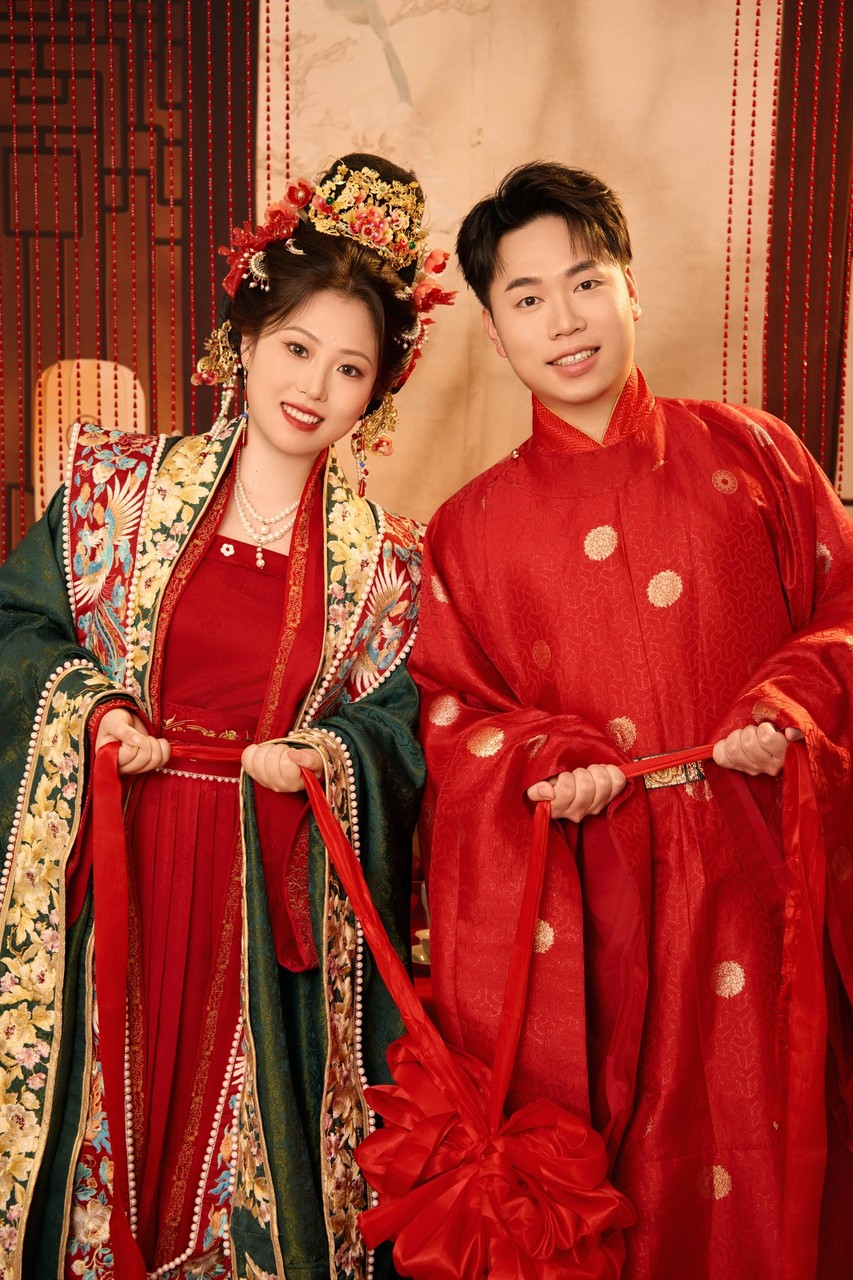
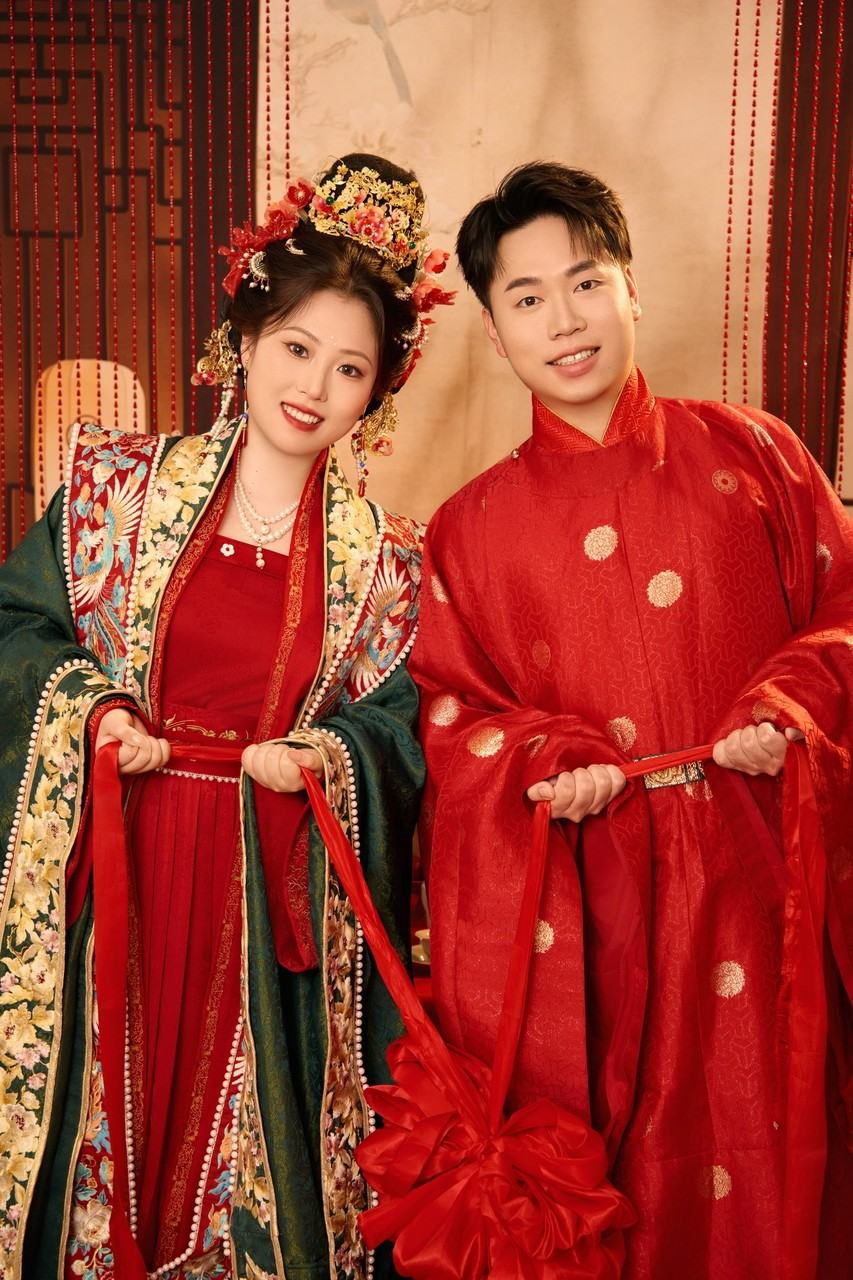
全面优化：.assetsignore 阻止32MB开发文件部署；删浏览器扩展残留4.7KB；worker 304修复；audio preload降级；photo2/3再压缩；_headers补女方海报no-cache+h2c长缓存

diff --git a/poster/western/poster-western.html b/poster/western/poster-western.html
@@ -224,132 +224,7 @@
     padding-right: 5px;
   }
 </style>
-<style data-noexport="">#ed-bar{position:absolute;left:50%;transform:translateX(-50%);z-index:99999;top:0;display:flex;gap:6px;align-items:center;background:rgba(22,14,10,.85);padding:8px 12px;border-radius:10px;font:13px/1.4 system-ui,sans-serif;color:#f3e8d2;box-shadow:0 6px 24px rgba(0,0,0,.4)}#ed-bar button{background:#3d2c20;border:1px solid #a98e5f;color:#f3e8d2;border-radius:6px;padding:4px 11px;cursor:pointer;font-size:13px;font-family:inherit}#ed-bar button:hover{background:#5a3f2b}#ed-bar button.primary{background:#8a6a3a;border-color:#d8bd85}#ed-bar .ed-hint{opacity:.65;margin-left:8px;font-size:12px}#ed-bar[hidden]{display:none}.ed-on img{-webkit-user-drag:none;user-select:none}.ed-on :is(.photo-wrap,.photo3-wrap,.arch,.calligraphy,.blessing,.corner-xi-l1,.corner-xi-l2,.xi-hero,.salute,.verse,.name-l,.name-r,.role,.name,.seal-medal,.divider,.sec-label,.time-1,.time-2,.loc-1,.loc-2,.host,.footline,.corner-xi-r1,.corner-xi-r2,.seal-v,.sprig-top,.eyebrow,.name-1,.amp,.name-2,.cn-names,.stem-l,.stem-r,.slot-label,.presence,.date-1,.date-2,.date-cn,.div-sm,.venue-1,.venue-2,.venue-cn,.seal,.host-cn){cursor:move}.ed-on :is(.photo-wrap,.photo3-wrap,.arch,.calligraphy,.blessing,.corner-xi-l1,.corner-xi-l2,.xi-hero,.salute,.verse,.name-l,.name-r,.role,.name,.seal-medal,.divider,.sec-label,.time-1,.time-2,.loc-1,.loc-2,.host,.footline,.corner-xi-r1,.corner-xi-r2,.seal-v,.sprig-top,.eyebrow,.name-1,.amp,.name-2,.cn-names,.stem-l,.stem-r,.slot-label,.presence,.date-1,.date-2,.date-cn,.div-sm,.venue-1,.venue-2,.venue-cn,.seal,.host-cn):hover{outline:1.5px dashed rgba(255,235,190,.75);outline-offset:2px}[contenteditable="true"]{outline:2px solid #e8c87c!important;cursor:text!important;user-select:text}#ed-selbox{position:absolute;border:1.5px dashed #e8c87c;pointer-events:none;z-index:9990;display:none}#ed-guide{position:absolute;top:0;width:1px;height:100%;background:rgba(232,200,124,.8);pointer-events:none;z-index:9989;display:none}.ed-crop :is(.photo-wrap,.arch){cursor:grab}.ed-crop :is(.photo-wrap,.arch):active{cursor:grabbing}</style><style id="dpp-chat-launcher-css">
-#dpp-chat-launcher-button {
-  position: fixed;
-  right: 22px;
-  bottom: max(22px, env(safe-area-inset-bottom));
-  z-index: 2147483646;
-  display: inline-flex;
-  align-items: center;
-  justify-content: center;
-  width: 44px;
-  height: 44px;
-  padding: 0;
-  border: 0;
-  border-radius: 999px;
-  outline: none;
-  background: rgba(255,255,255,0.82);
-  box-shadow: 0 14px 34px rgba(15,23,42,0.18), inset 0 1px 0 rgba(255,255,255,0.75);
-  backdrop-filter: blur(18px) saturate(1.2);
-  -webkit-backdrop-filter: blur(18px) saturate(1.2);
-  cursor: pointer;
-  transition: transform 0.12s ease;
-  touch-action: none;
-}
-#dpp-chat-launcher-button:hover { transform: scale(1.06); }
-#dpp-chat-launcher-button:active { transform: scale(0.98); }
-html.dpp-theme-dark #dpp-chat-launcher-button, [data-dpp-theme="dark"] #dpp-chat-launcher-button {
-  background: rgba(17,21,29,0.48);
-  box-shadow: 0 18px 46px rgba(0,0,0,0.38), inset 0 1px 0 rgba(255,255,255,0.08);
-}
-#dpp-chat-launcher-button .dpp-chat-launcher__whale {
-  display: block;
-  width: 32px;
-  height: 32px;
-  background-repeat: no-repeat;
-  background-size: 400% 200%;
-  /* "thinking" frame of the 4x2 sprite sheet */
-  background-position: 33.3333% 0%;
-  pointer-events: none;
-}
-
-#dpp-floating-chat-window {
-  position: fixed;
-  right: 22px;
-  bottom: 80px;
-  z-index: 2147483645;
-  width: min(430px, calc(100vw - 28px));
-  height: min(720px, calc(100vh - 100px));
-  border: 1px solid rgba(0,0,0,0.08);
-  border-radius: 18px;
-  overflow: hidden;
-  background: rgba(250,250,250,0.86);
-  box-shadow: 0 24px 60px rgba(15,23,42,0.18);
-  animation: dpp-floating-chat-in 170ms ease;
-  display: flex;
-  flex-direction: column;
-}
-#dpp-floating-chat-window.dpp-floating-chat--dark {
-  border-color: rgba(148,163,184,0.22);
-  background: rgba(7,9,13,0.42);
-  box-shadow: 0 28px 82px rgba(0,0,0,0.52), inset 0 1px 0 rgba(255,255,255,0.06);
-  backdrop-filter: blur(30px) saturate(1.18);
-  -webkit-backdrop-filter: blur(30px) saturate(1.18);
-}
-#dpp-floating-chat-window .dpp-floating-chat__frame {
-  width: 100%;
-  flex: 1;
-  min-height: 0;
-  border: 0;
-  background: transparent;
-}
-#dpp-floating-chat-window .dpp-floating-chat__header {
-  display: flex;
-  align-items: center;
-  justify-content: space-between;
-  padding: 8px 12px;
-  background: rgba(255,255,255,0.95);
-  border-bottom: 1px solid rgba(0,0,0,0.06);
-  cursor: move;
-  user-select: none;
-  touch-action: none;
-  flex-shrink: 0;
-}
-#dpp-floating-chat-window.dpp-floating-chat--dark .dpp-floating-chat__header {
-  background: rgba(17,21,29,0.95);
-  border-bottom-color: rgba(148,163,184,0.18);
-}
-#dpp-floating-chat-window .dpp-floating-chat__title {
-  font: 700 13px/1.4 'Inter', 'PingFang SC', -apple-system, "Segoe UI", "Microsoft YaHei", sans-serif;
-  color: #4d6bfe;
-}
-#dpp-floating-chat-window.dpp-floating-chat--dark .dpp-floating-chat__title { color: #7b93ff; }
-#dpp-floating-chat-window .dpp-floating-chat__close {
-  width: 20px;
-  height: 20px;
-  border: 0;
-  border-radius: 6px;
-  background: transparent;
-  color: #9ca3af;
-  cursor: pointer;
-  display: flex;
-  align-items: center;
-  justify-content: center;
-  font-size: 16px;
-  line-height: 1;
-}
-#dpp-floating-chat-window .dpp-floating-chat__close:hover { background: rgba(0,0,0,0.06); color: #374151; }
-#dpp-floating-chat-window.dpp-floating-chat--dark .dpp-floating-chat__close { color: #9ca3af; }
-#dpp-floating-chat-window.dpp-floating-chat--dark .dpp-floating-chat__close:hover { background: rgba(255,255,255,0.08); color: #e5e7eb; }
-#dpp-floating-chat-window.dpp-floating-chat--dragging { transition: none !important; user-select: none; }
-#dpp-floating-chat-window.dpp-floating-chat--dragging .dpp-floating-chat__frame { pointer-events: none; }
-body.dpp-floating-chat-dragging { cursor: move !important; }
-body.dpp-floating-chat-dragging * { cursor: move !important; }
-
-@keyframes dpp-floating-chat-in {
-  from { opacity: 0; transform: translateY(8px) scale(0.98); }
-  to { opacity: 1; transform: translateY(0) scale(1); }
-}
-@media (max-width: 640px) {
-  #dpp-floating-chat-window {
-    right: 14px;
-    bottom: 74px;
-    width: calc(100vw - 28px);
-    height: min(680px, calc(100vh - 100px));
-  }
-}
-</style></head>
+<style data-noexport="">#ed-bar{position:absolute;left:50%;transform:translateX(-50%);z-index:99999;top:0;display:flex;gap:6px;align-items:center;background:rgba(22,14,10,.85);padding:8px 12px;border-radius:10px;font:13px/1.4 system-ui,sans-serif;color:#f3e8d2;box-shadow:0 6px 24px rgba(0,0,0,.4)}#ed-bar button{background:#3d2c20;border:1px solid #a98e5f;color:#f3e8d2;border-radius:6px;padding:4px 11px;cursor:pointer;font-size:13px;font-family:inherit}#ed-bar button:hover{background:#5a3f2b}#ed-bar button.primary{background:#8a6a3a;border-color:#d8bd85}#ed-bar .ed-hint{opacity:.65;margin-left:8px;font-size:12px}#ed-bar[hidden]{display:none}.ed-on img{-webkit-user-drag:none;user-select:none}.ed-on :is(.photo-wrap,.photo3-wrap,.arch,.calligraphy,.blessing,.corner-xi-l1,.corner-xi-l2,.xi-hero,.salute,.verse,.name-l,.name-r,.role,.name,.seal-medal,.divider,.sec-label,.time-1,.time-2,.loc-1,.loc-2,.host,.footline,.corner-xi-r1,.corner-xi-r2,.seal-v,.sprig-top,.eyebrow,.name-1,.amp,.name-2,.cn-names,.stem-l,.stem-r,.slot-label,.presence,.date-1,.date-2,.date-cn,.div-sm,.venue-1,.venue-2,.venue-cn,.seal,.host-cn){cursor:move}.ed-on :is(.photo-wrap,.photo3-wrap,.arch,.calligraphy,.blessing,.corner-xi-l1,.corner-xi-l2,.xi-hero,.salute,.verse,.name-l,.name-r,.role,.name,.seal-medal,.divider,.sec-label,.time-1,.time-2,.loc-1,.loc-2,.host,.footline,.corner-xi-r1,.corner-xi-r2,.seal-v,.sprig-top,.eyebrow,.name-1,.amp,.name-2,.cn-names,.stem-l,.stem-r,.slot-label,.presence,.date-1,.date-2,.date-cn,.div-sm,.venue-1,.venue-2,.venue-cn,.seal,.host-cn):hover{outline:1.5px dashed rgba(255,235,190,.75);outline-offset:2px}[contenteditable="true"]{outline:2px solid #e8c87c!important;cursor:text!important;user-select:text}#ed-selbox{position:absolute;border:1.5px dashed #e8c87c;pointer-events:none;z-index:9990;display:none}#ed-guide{position:absolute;top:0;width:1px;height:100%;background:rgba(232,200,124,.8);pointer-events:none;z-index:9989;display:none}.ed-crop :is(.photo-wrap,.arch){cursor:grab}.ed-crop :is(.photo-wrap,.arch):active{cursor:grabbing}</style></head>
 <body><div id="stage" style="transform: scale(0.378095);" class="ed-on">
 
   <div class="frame-outer"></div>
@@ -1081,8 +956,7 @@ body.dpp-floating-chat-dragging * { cursor: move !important; }
 							</div>
 						</div>
 					</div>
-				  <button id="dpp-chat-launcher-button" data-dpp-chat-launcher-owner="launcher-1791377156780-qx2fly0qcg" type="button" style="" title="Open DS++ Chat" aria-label="Open DS++ Chat"><span class="dpp-chat-launcher__whale" style="background-image:url('chrome-extension://kdmpkkahkhdmdhfkdihkopikgcocbpbf/pet/deepseek-whale-pet-states.png')"></span></button><div id="vcaptions-subtitle-iframe" style="transition: 0.3s cubic-bezier(0.4, 0, 0.2, 1); display: none; position: fixed;"></div>
-<style data-noexport>
+				  <style data-noexport>
   /* ---------- 浪漫粒子层：金瓣飘落 + 星光闪烁 + 光斑上升(整屏覆盖) ---------- */
   .romance{position:fixed;inset:0;z-index:9998;pointer-events:none;overflow:hidden}
   .romance i{position:absolute;display:block;pointer-events:none;opacity:0}

diff --git a/poster/chinese/poster.html b/poster/chinese/poster.html
@@ -260,132 +260,7 @@
     color: var(--cream-dim); font-size: 27px; font-weight: 400; letter-spacing: 0.24em; padding-left: 0.24em; opacity: 0.85;
   }
 </style>
-<style data-noexport="">#ed-bar{position:absolute;left:50%;transform:translateX(-50%);z-index:99999;top:0;display:flex;gap:6px;align-items:center;background:rgba(22,14,10,.85);padding:8px 12px;border-radius:10px;font:13px/1.4 system-ui,sans-serif;color:#f3e8d2;box-shadow:0 6px 24px rgba(0,0,0,.4)}#ed-bar button{background:#3d2c20;border:1px solid #a98e5f;color:#f3e8d2;border-radius:6px;padding:4px 11px;cursor:pointer;font-size:13px;font-family:inherit}#ed-bar button:hover{background:#5a3f2b}#ed-bar button.primary{background:#8a6a3a;border-color:#d8bd85}#ed-bar .ed-hint{opacity:.65;margin-left:8px;font-size:12px}#ed-bar[hidden]{display:none}.ed-on img{-webkit-user-drag:none;user-select:none}.ed-on :is(.photo-wrap,.photo3-wrap,.arch,.calligraphy,.blessing,.corner-xi-l1,.corner-xi-l2,.xi-hero,.salute,.verse,.name-l,.name-r,.role,.name,.seal-medal,.divider,.sec-label,.time-1,.time-2,.loc-1,.loc-2,.host,.footline,.corner-xi-r1,.corner-xi-r2,.seal-v,.sprig-top,.eyebrow,.name-1,.amp,.name-2,.cn-names,.stem-l,.stem-r,.slot-label,.presence,.date-1,.date-2,.date-cn,.div-sm,.venue-1,.venue-2,.venue-cn,.seal,.host-cn){cursor:move}.ed-on :is(.photo-wrap,.photo3-wrap,.arch,.calligraphy,.blessing,.corner-xi-l1,.corner-xi-l2,.xi-hero,.salute,.verse,.name-l,.name-r,.role,.name,.seal-medal,.divider,.sec-label,.time-1,.time-2,.loc-1,.loc-2,.host,.footline,.corner-xi-r1,.corner-xi-r2,.seal-v,.sprig-top,.eyebrow,.name-1,.amp,.name-2,.cn-names,.stem-l,.stem-r,.slot-label,.presence,.date-1,.date-2,.date-cn,.div-sm,.venue-1,.venue-2,.venue-cn,.seal,.host-cn):hover{outline:1.5px dashed rgba(255,235,190,.75);outline-offset:2px}[contenteditable="true"]{outline:2px solid #e8c87c!important;cursor:text!important;user-select:text}#ed-selbox{position:absolute;border:1.5px dashed #e8c87c;pointer-events:none;z-index:9990;display:none}#ed-guide{position:absolute;top:0;width:1px;height:100%;background:rgba(232,200,124,.8);pointer-events:none;z-index:9989;display:none}.ed-crop :is(.photo-wrap,.arch){cursor:grab}.ed-crop :is(.photo-wrap,.arch):active{cursor:grabbing}</style><style id="dpp-chat-launcher-css">
-#dpp-chat-launcher-button {
-  position: fixed;
-  right: 22px;
-  bottom: max(22px, env(safe-area-inset-bottom));
-  z-index: 2147483646;
-  display: inline-flex;
-  align-items: center;
-  justify-content: center;
-  width: 44px;
-  height: 44px;
-  padding: 0;
-  border: 0;
-  border-radius: 999px;
-  outline: none;
-  background: rgba(255,255,255,0.82);
-  box-shadow: 0 14px 34px rgba(15,23,42,0.18), inset 0 1px 0 rgba(255,255,255,0.75);
-  backdrop-filter: blur(18px) saturate(1.2);
-  -webkit-backdrop-filter: blur(18px) saturate(1.2);
-  cursor: pointer;
-  transition: transform 0.12s ease;
-  touch-action: none;
-}
-#dpp-chat-launcher-button:hover { transform: scale(1.06); }
-#dpp-chat-launcher-button:active { transform: scale(0.98); }
-html.dpp-theme-dark #dpp-chat-launcher-button, [data-dpp-theme="dark"] #dpp-chat-launcher-button {
-  background: rgba(17,21,29,0.48);
-  box-shadow: 0 18px 46px rgba(0,0,0,0.38), inset 0 1px 0 rgba(255,255,255,0.08);
-}
-#dpp-chat-launcher-button .dpp-chat-launcher__whale {
-  display: block;
-  width: 32px;
-  height: 32px;
-  background-repeat: no-repeat;
-  background-size: 400% 200%;
-  /* "thinking" frame of the 4x2 sprite sheet */
-  background-position: 33.3333% 0%;
-  pointer-events: none;
-}
-
-#dpp-floating-chat-window {
-  position: fixed;
-  right: 22px;
-  bottom: 80px;
-  z-index: 2147483645;
-  width: min(430px, calc(100vw - 28px));
-  height: min(720px, calc(100vh - 100px));
-  border: 1px solid rgba(0,0,0,0.08);
-  border-radius: 18px;
-  overflow: hidden;
-  background: rgba(250,250,250,0.86);
-  box-shadow: 0 24px 60px rgba(15,23,42,0.18);
-  animation: dpp-floating-chat-in 170ms ease;
-  display: flex;
-  flex-direction: column;
-}
-#dpp-floating-chat-window.dpp-floating-chat--dark {
-  border-color: rgba(148,163,184,0.22);
-  background: rgba(7,9,13,0.42);
-  box-shadow: 0 28px 82px rgba(0,0,0,0.52), inset 0 1px 0 rgba(255,255,255,0.06);
-  backdrop-filter: blur(30px) saturate(1.18);
-  -webkit-backdrop-filter: blur(30px) saturate(1.18);
-}
-#dpp-floating-chat-window .dpp-floating-chat__frame {
-  width: 100%;
-  flex: 1;
-  min-height: 0;
-  border: 0;
-  background: transparent;
-}
-#dpp-floating-chat-window .dpp-floating-chat__header {
-  display: flex;
-  align-items: center;
-  justify-content: space-between;
-  padding: 8px 12px;
-  background: rgba(255,255,255,0.95);
-  border-bottom: 1px solid rgba(0,0,0,0.06);
-  cursor: move;
-  user-select: none;
-  touch-action: none;
-  flex-shrink: 0;
-}
-#dpp-floating-chat-window.dpp-floating-chat--dark .dpp-floating-chat__header {
-  background: rgba(17,21,29,0.95);
-  border-bottom-color: rgba(148,163,184,0.18);
-}
-#dpp-floating-chat-window .dpp-floating-chat__title {
-  font: 700 13px/1.4 'Inter', 'PingFang SC', -apple-system, "Segoe UI", "Microsoft YaHei", sans-serif;
-  color: #4d6bfe;
-}
-#dpp-floating-chat-window.dpp-floating-chat--dark .dpp-floating-chat__title { color: #7b93ff; }
-#dpp-floating-chat-window .dpp-floating-chat__close {
-  width: 20px;
-  height: 20px;
-  border: 0;
-  border-radius: 6px;
-  background: transparent;
-  color: #9ca3af;
-  cursor: pointer;
-  display: flex;
-  align-items: center;
-  justify-content: center;
-  font-size: 16px;
-  line-height: 1;
-}
-#dpp-floating-chat-window .dpp-floating-chat__close:hover { background: rgba(0,0,0,0.06); color: #374151; }
-#dpp-floating-chat-window.dpp-floating-chat--dark .dpp-floating-chat__close { color: #9ca3af; }
-#dpp-floating-chat-window.dpp-floating-chat--dark .dpp-floating-chat__close:hover { background: rgba(255,255,255,0.08); color: #e5e7eb; }
-#dpp-floating-chat-window.dpp-floating-chat--dragging { transition: none !important; user-select: none; }
-#dpp-floating-chat-window.dpp-floating-chat--dragging .dpp-floating-chat__frame { pointer-events: none; }
-body.dpp-floating-chat-dragging { cursor: move !important; }
-body.dpp-floating-chat-dragging * { cursor: move !important; }
-
-@keyframes dpp-floating-chat-in {
-  from { opacity: 0; transform: translateY(8px) scale(0.98); }
-  to { opacity: 1; transform: translateY(0) scale(1); }
-}
-@media (max-width: 640px) {
-  #dpp-floating-chat-window {
-    right: 14px;
-    bottom: 74px;
-    width: calc(100vw - 28px);
-    height: min(680px, calc(100vh - 100px));
-  }
-}
-</style></head>
+<style data-noexport="">#ed-bar{position:absolute;left:50%;transform:translateX(-50%);z-index:99999;top:0;display:flex;gap:6px;align-items:center;background:rgba(22,14,10,.85);padding:8px 12px;border-radius:10px;font:13px/1.4 system-ui,sans-serif;color:#f3e8d2;box-shadow:0 6px 24px rgba(0,0,0,.4)}#ed-bar button{background:#3d2c20;border:1px solid #a98e5f;color:#f3e8d2;border-radius:6px;padding:4px 11px;cursor:pointer;font-size:13px;font-family:inherit}#ed-bar button:hover{background:#5a3f2b}#ed-bar button.primary{background:#8a6a3a;border-color:#d8bd85}#ed-bar .ed-hint{opacity:.65;margin-left:8px;font-size:12px}#ed-bar[hidden]{display:none}.ed-on img{-webkit-user-drag:none;user-select:none}.ed-on :is(.photo-wrap,.photo3-wrap,.arch,.calligraphy,.blessing,.corner-xi-l1,.corner-xi-l2,.xi-hero,.salute,.verse,.name-l,.name-r,.role,.name,.seal-medal,.divider,.sec-label,.time-1,.time-2,.loc-1,.loc-2,.host,.footline,.corner-xi-r1,.corner-xi-r2,.seal-v,.sprig-top,.eyebrow,.name-1,.amp,.name-2,.cn-names,.stem-l,.stem-r,.slot-label,.presence,.date-1,.date-2,.date-cn,.div-sm,.venue-1,.venue-2,.venue-cn,.seal,.host-cn){cursor:move}.ed-on :is(.photo-wrap,.photo3-wrap,.arch,.calligraphy,.blessing,.corner-xi-l1,.corner-xi-l2,.xi-hero,.salute,.verse,.name-l,.name-r,.role,.name,.seal-medal,.divider,.sec-label,.time-1,.time-2,.loc-1,.loc-2,.host,.footline,.corner-xi-r1,.corner-xi-r2,.seal-v,.sprig-top,.eyebrow,.name-1,.amp,.name-2,.cn-names,.stem-l,.stem-r,.slot-label,.presence,.date-1,.date-2,.date-cn,.div-sm,.venue-1,.venue-2,.venue-cn,.seal,.host-cn):hover{outline:1.5px dashed rgba(255,235,190,.75);outline-offset:2px}[contenteditable="true"]{outline:2px solid #e8c87c!important;cursor:text!important;user-select:text}#ed-selbox{position:absolute;border:1.5px dashed #e8c87c;pointer-events:none;z-index:9990;display:none}#ed-guide{position:absolute;top:0;width:1px;height:100%;background:rgba(232,200,124,.8);pointer-events:none;z-index:9989;display:none}.ed-crop :is(.photo-wrap,.arch){cursor:grab}.ed-crop :is(.photo-wrap,.arch):active{cursor:grabbing}</style></head>
 <body><div id="stage" style="transform: scale(0.397);" class="ed-on">
 
   <!-- ===== left panel ===== -->
@@ -1079,4 +954,4 @@ body.dpp-floating-chat-dragging * { cursor: move !important; }
 							</div>
 						</div>
 					</div>
-				  <button id="dpp-chat-launcher-button" data-dpp-chat-launcher-owner="launcher-1791376953297-lfi65isi9rq" type="button" style="" title="Open DS++ Chat" aria-label="Open DS++ Chat"><span class="dpp-chat-launcher__whale" style="background-image:url('chrome-extension://kdmpkkahkhdmdhfkdihkopikgcocbpbf/pet/deepseek-whale-pet-states.png')"></span></button><div id="vcaptions-subtitle-iframe" style="transition: 0.3s cubic-bezier(0.4, 0, 0.2, 1); display: none; position: fixed;"></div></body></html>
+				  </body></html>

diff --git a/inv-w/index.html b/inv-w/index.html
@@ -551,7 +551,7 @@ body.opened .hero [data-hero]{animation:heroIn .95s var(--d,0s) cubic-bezier(.22
 <div class="snow" aria-hidden="true"><i></i><i></i><i></i><i></i><i></i><i></i><i></i><i></i><i></i><i></i><i></i><i></i></div><div class="leaves" aria-hidden="true"><i></i><i></i><i></i><i></i><i></i><i></i><i></i><i></i></div><div class="bubbles" aria-hidden="true"><i></i><i></i><i></i><i></i><i></i><i></i><i></i><i></i><i></i><i></i></div>
 
 <!-- 背景音乐:开启请柬后自动播放;右上角按钮可暂停/继续 -->
-<audio id="bgm" src="../audio/bgm.m4a" loop preload="auto"></audio>
+<audio id="bgm" src="../audio/bgm.m4a" loop preload="metadata"></audio>
 <button id="music-btn" hidden title="背景音乐" aria-label="背景音乐">
   <svg viewBox="0 0 24 24" fill="none" stroke="#AE8A4D" stroke-width="1.6" stroke-linecap="round" stroke-linejoin="round" aria-hidden="true">
     <path d="M9 18V5.5L20 3v12.5"/>

diff --git a/inv-b/index.html b/inv-b/index.html
@@ -475,8 +475,8 @@ html.js body:not(.locked) .scroll-cue{animation:heroIn .95s 1.1s cubic-bezier(.2
 <img src="../images/share-nv.png" alt="" class="share-fallback" style="position:absolute;left:-9999px;top:0;width:300px;height:300px;">
 
 <!-- 背景音乐:自动播放;右上角按钮可暂停/继续 -->
-<audio id="bgm" src="../audio/bgm.m4a" loop preload="auto"></audio>
-<audio id="ring" src="../audio/bell.m4a" loop preload="auto"></audio>
+<audio id="bgm" src="../audio/bgm.m4a" loop preload="metadata"></audio>
+<audio id="ring" src="../audio/bell.m4a" loop preload="metadata"></audio>
 <button id="music-btn" hidden title="背景音乐" aria-label="背景音乐">
   <svg viewBox="0 0 48 48" xmlns="http://www.w3.org/2000/svg" aria-hidden="true">
     <defs>

diff --git a/inv-o/index.html b/inv-o/index.html
@@ -475,8 +475,8 @@ html.js body:not(.locked) .scroll-cue{animation:heroIn .95s 1.1s cubic-bezier(.2
 <img src="../images/share-nv.png" alt="" class="share-fallback" style="position:absolute;left:-9999px;top:0;width:300px;height:300px;">
 
 <!-- 背景音乐:自动播放;右上角按钮可暂停/继续 -->
-<audio id="bgm" src="../audio/bgm.m4a" loop preload="auto"></audio>
-<audio id="ring" src="../audio/bell.m4a" loop preload="auto"></audio>
+<audio id="bgm" src="../audio/bgm.m4a" loop preload="metadata"></audio>
+<audio id="ring" src="../audio/bell.m4a" loop preload="metadata"></audio>
 <button id="music-btn" hidden title="背景音乐" aria-label="背景音乐">
   <svg viewBox="0 0 48 48" xmlns="http://www.w3.org/2000/svg" aria-hidden="true">
     <defs>

diff --git a/inv-g/index.html b/inv-g/index.html
@@ -479,8 +479,8 @@ html.js body:not(.locked) .scroll-cue{animation:heroIn .95s 1.1s cubic-bezier(.2
 <img src="../images/share.png" alt="" class="share-fallback" style="position:absolute;left:-9999px;top:0;width:300px;height:300px;">
 
 <!-- 背景音乐:自动播放;右上角按钮可暂停/继续 -->
-<audio id="bgm" src="../audio/bgm.m4a" loop preload="auto"></audio>
-<audio id="ring" src="../audio/bell.m4a" loop preload="auto"></audio>
+<audio id="bgm" src="../audio/bgm.m4a" loop preload="metadata"></audio>
+<audio id="ring" src="../audio/bell.m4a" loop preload="metadata"></audio>
 <button id="music-btn" hidden title="背景音乐" aria-label="背景音乐">
   <svg viewBox="0 0 48 48" xmlns="http://www.w3.org/2000/svg" aria-hidden="true">
     <defs>

diff --git a/worker.js b/worker.js
@@ -137,6 +137,8 @@ export default {
 
     if ((request.headers.get("Cookie") || "").includes(`${COOKIE}=${TOKEN}`)) {
       const res = await env.ASSETS.fetch(request);
+      /* 304 Not Modified: 浏览器缓存命中, 不可改写 body */
+      if (res.status === 304) return res;
       if ((res.headers.get("content-type") || "").includes("text/html")) {
         let html = await res.text();
         html = html.replace("<body>", "<body>" + HINT_HTML, 1);
